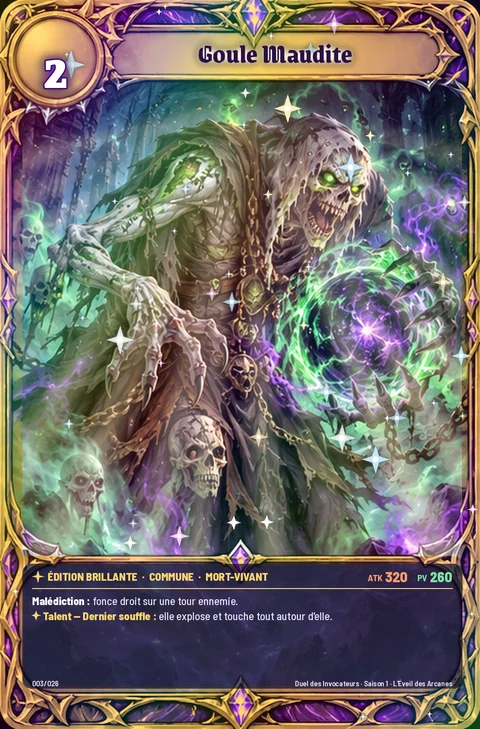
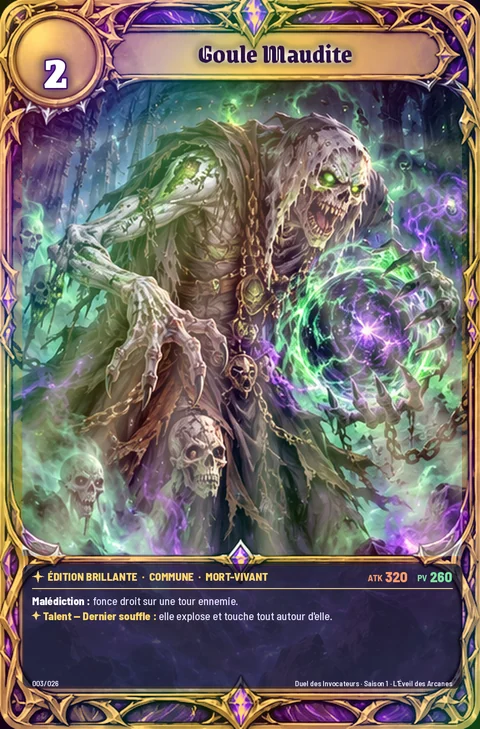
Édition Brillante : suppression des petites étoiles ajoutées
Claude-Session: https://claude.ai/code/session_01Be12kSUqiE6nLSpkMa8juU

diff --git a/tools/cartes.py b/tools/cartes.py
@@ -103,17 +103,6 @@ def holo_fx(im, z, seed=1):
     rays = rays.filter(ImageFilter.GaussianBlur(14))
     m = Image.fromarray((np.asarray(rays) * art).astype('uint8'))
     out.alpha_composite(Image.merge('RGBA', (Image.new('L', (W, H), 255), Image.new('L', (W, H), 240), Image.new('L', (W, H), 200), m)))
-    # 4) éclats scintillants
-    sp = Image.new('RGBA', (W, H), (0, 0, 0, 0)); ds = ImageDraw.Draw(sp)
-    for _ in range(70):
-        x, y = rnd.randint(cx0 + 10, cx1 - 10), rnd.randint(cy0 + 10, cy1 - 10)
-        if inside_text[y, x]: continue
-        r = rnd.choice([6, 8, 10, 14, 20, 28])
-        col = rnd.choice([(255, 255, 255), (255, 240, 190), (200, 235, 255), (255, 210, 250)])
-        star(ds, x, y, r, col + (rnd.randint(170, 255),))
-        ds.ellipse((x - r * .18, y - r * .18, x + r * .18, y + r * .18), fill=(255, 255, 255, 255))
-    glow = sp.filter(ImageFilter.GaussianBlur(4))
-    out.alpha_composite(glow); out.alpha_composite(sp)
     return out
 
 
